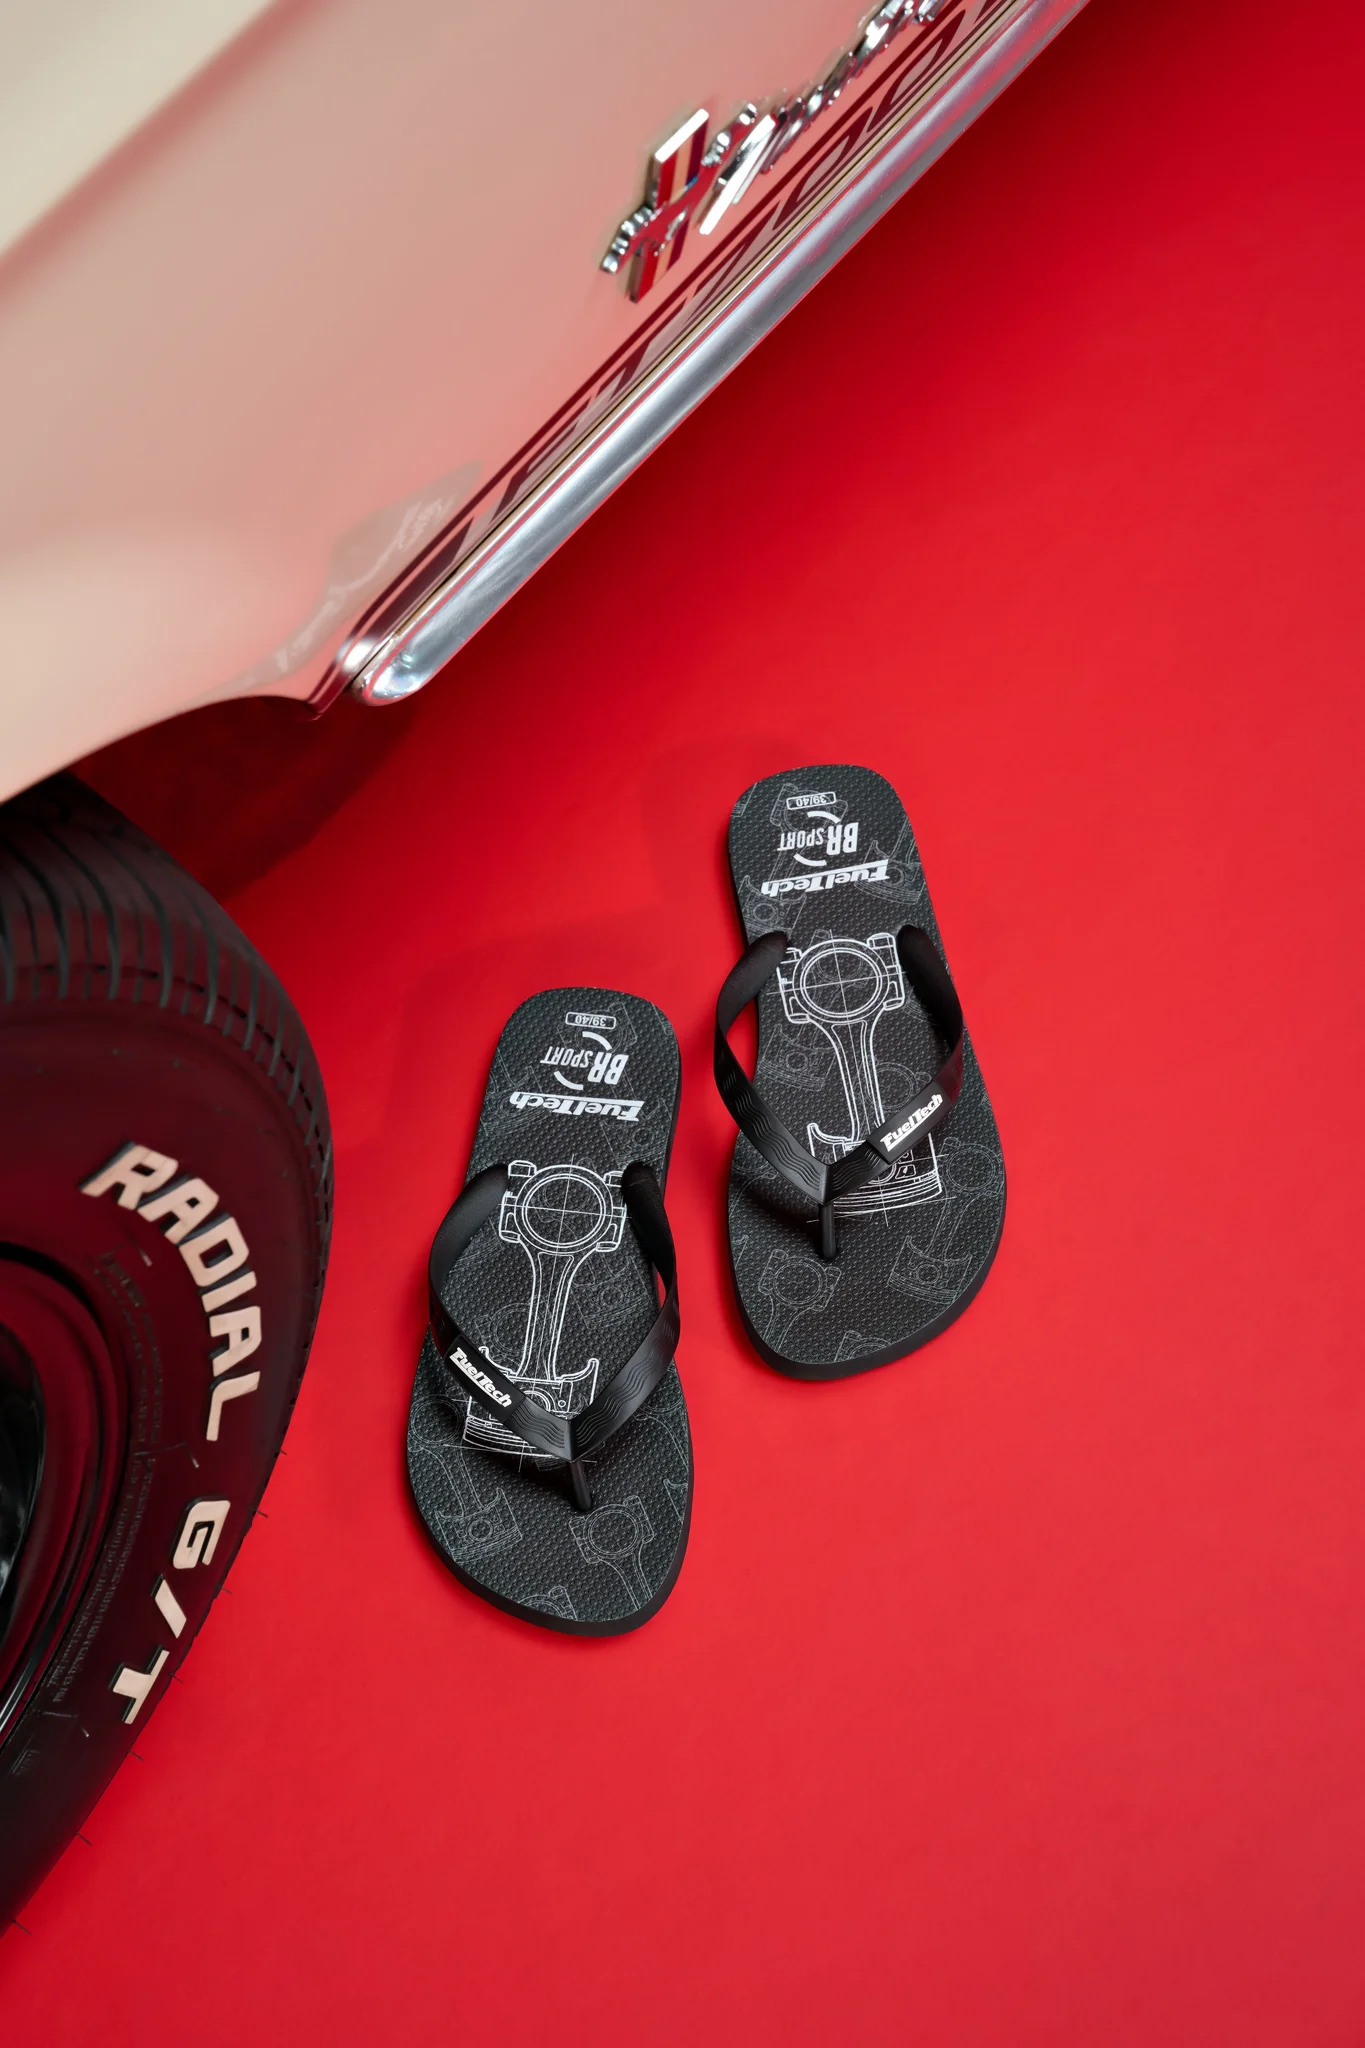
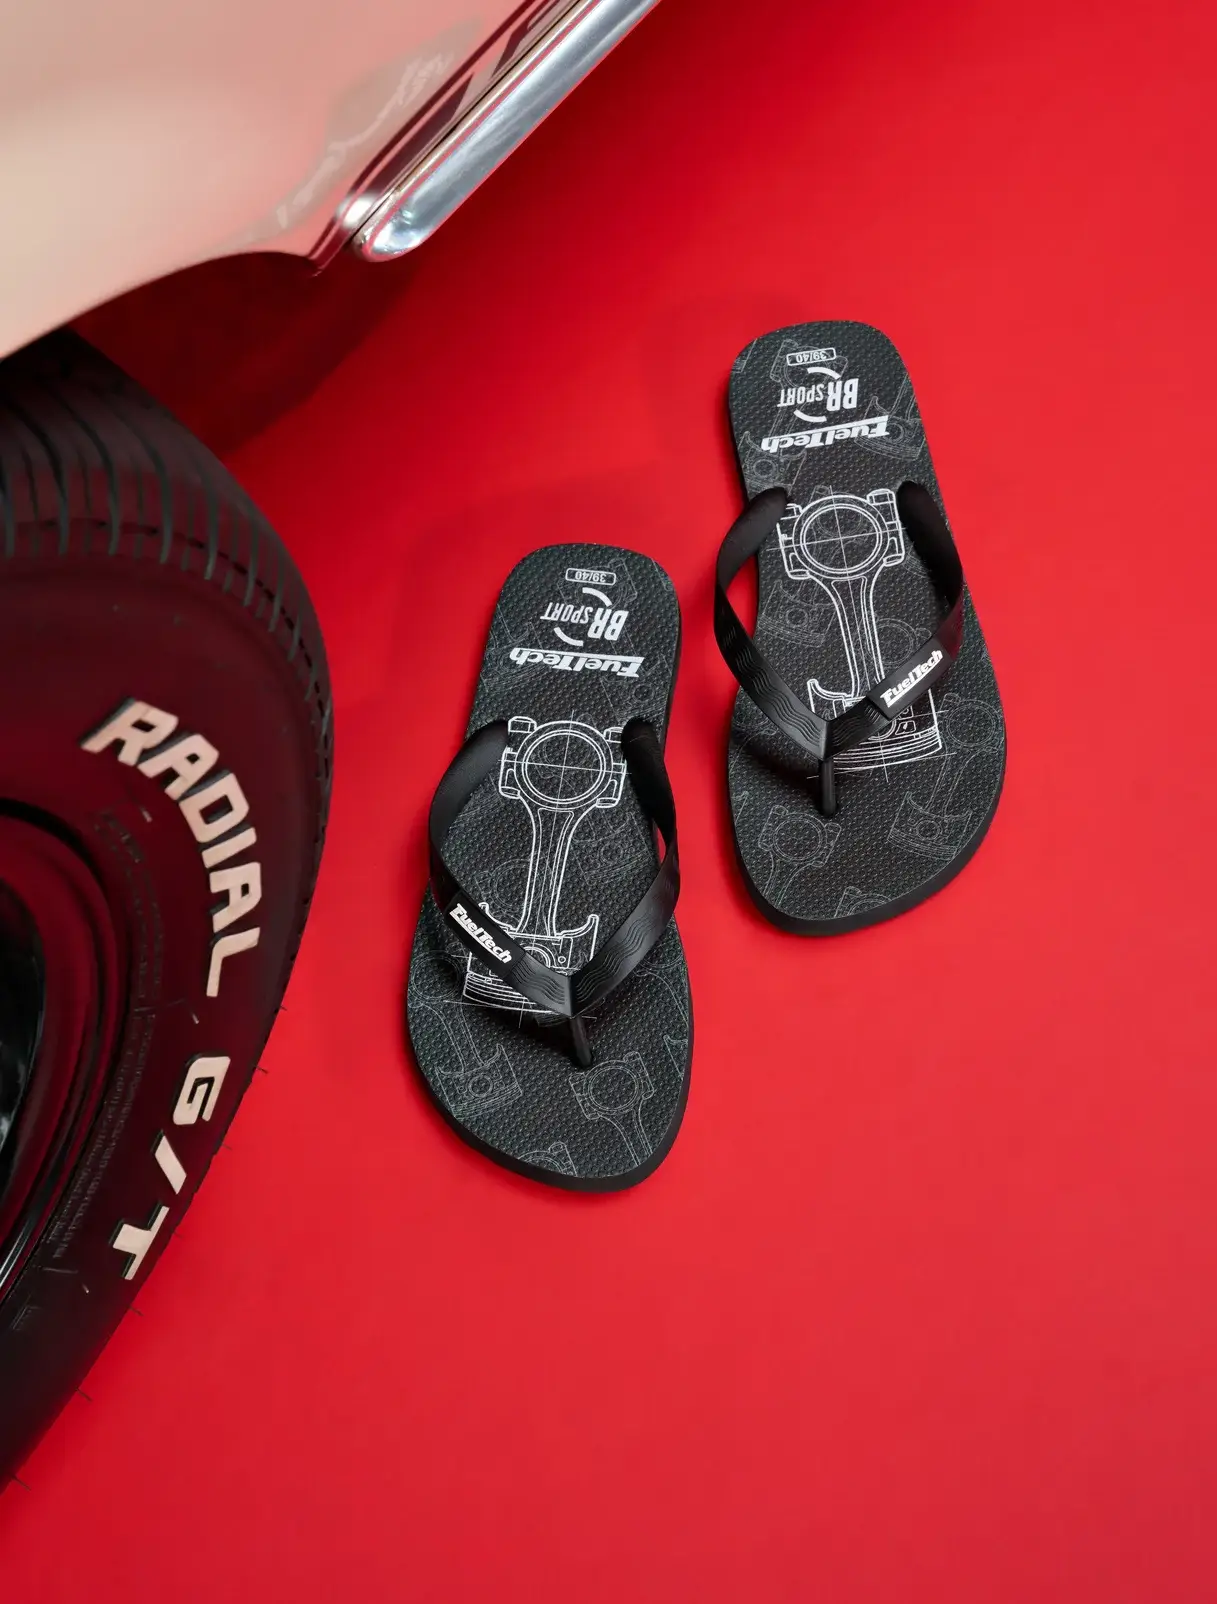
fix: atualiza imagens 0169 e 0195 cortadas; atualiza texto slide 2 do hero

diff --git a/index.html b/index.html
@@ -207,7 +207,7 @@
         <span class="block relative z-10">Edição Especial</span><span class="text-red">FuelTech</span>
       </h1>
       <p class="text-white/75 text-base md:text-xl max-w-xl mb-8 leading-relaxed" style="font-family:'Roboto',sans-serif;">
-        Inspirada na velocidade. Construída para o seu dia a dia. O design arrojado da BR Sport com o DNA tecnológico da FuelTech.
+        Inspirada na velocidade. Construída para sua rotina. O conforto de BR Sport com o DNA tecnológico da FuelTech.
       </p>
       <a href="#formulario" class="btn-red px-8 py-4 text-sm md:text-base ">Garantir meu acesso exclusivo<svg xmlns="http://www.w3.org/2000/svg" width="16" height="16" viewBox="0 -960 960 960" fill="currentColor"><path d="m368-320 112-84 110 84-42-136 112-88H524l-44-136-44 136H300l110 88-42 136ZM160-160q-33 0-56.5-23.5T80-240v-135q0-11 7-19t18-10q24-8 39.5-29t15.5-47q0-26-15.5-47T105-556q-11-2-18-10t-7-19v-135q0-33 23.5-56.5T160-800h640q33 0 56.5 23.5T880-720v135q0 11-7 19t-18 10q-24 8-39.5 29T800-480q0 26 15.5 47t39.5 29q11 2 18 10t7 19v135q0 33-23.5 56.5T800-160H160Zm0-80h640v-102q-37-22-58.5-58.5T720-480q0-43 21.5-79.5T800-618v-102H160v102q37 22 58.5 58.5T240-480q0 43-21.5 79.5T160-342v102Zm320-240Z"/></svg></a>
     </div>
